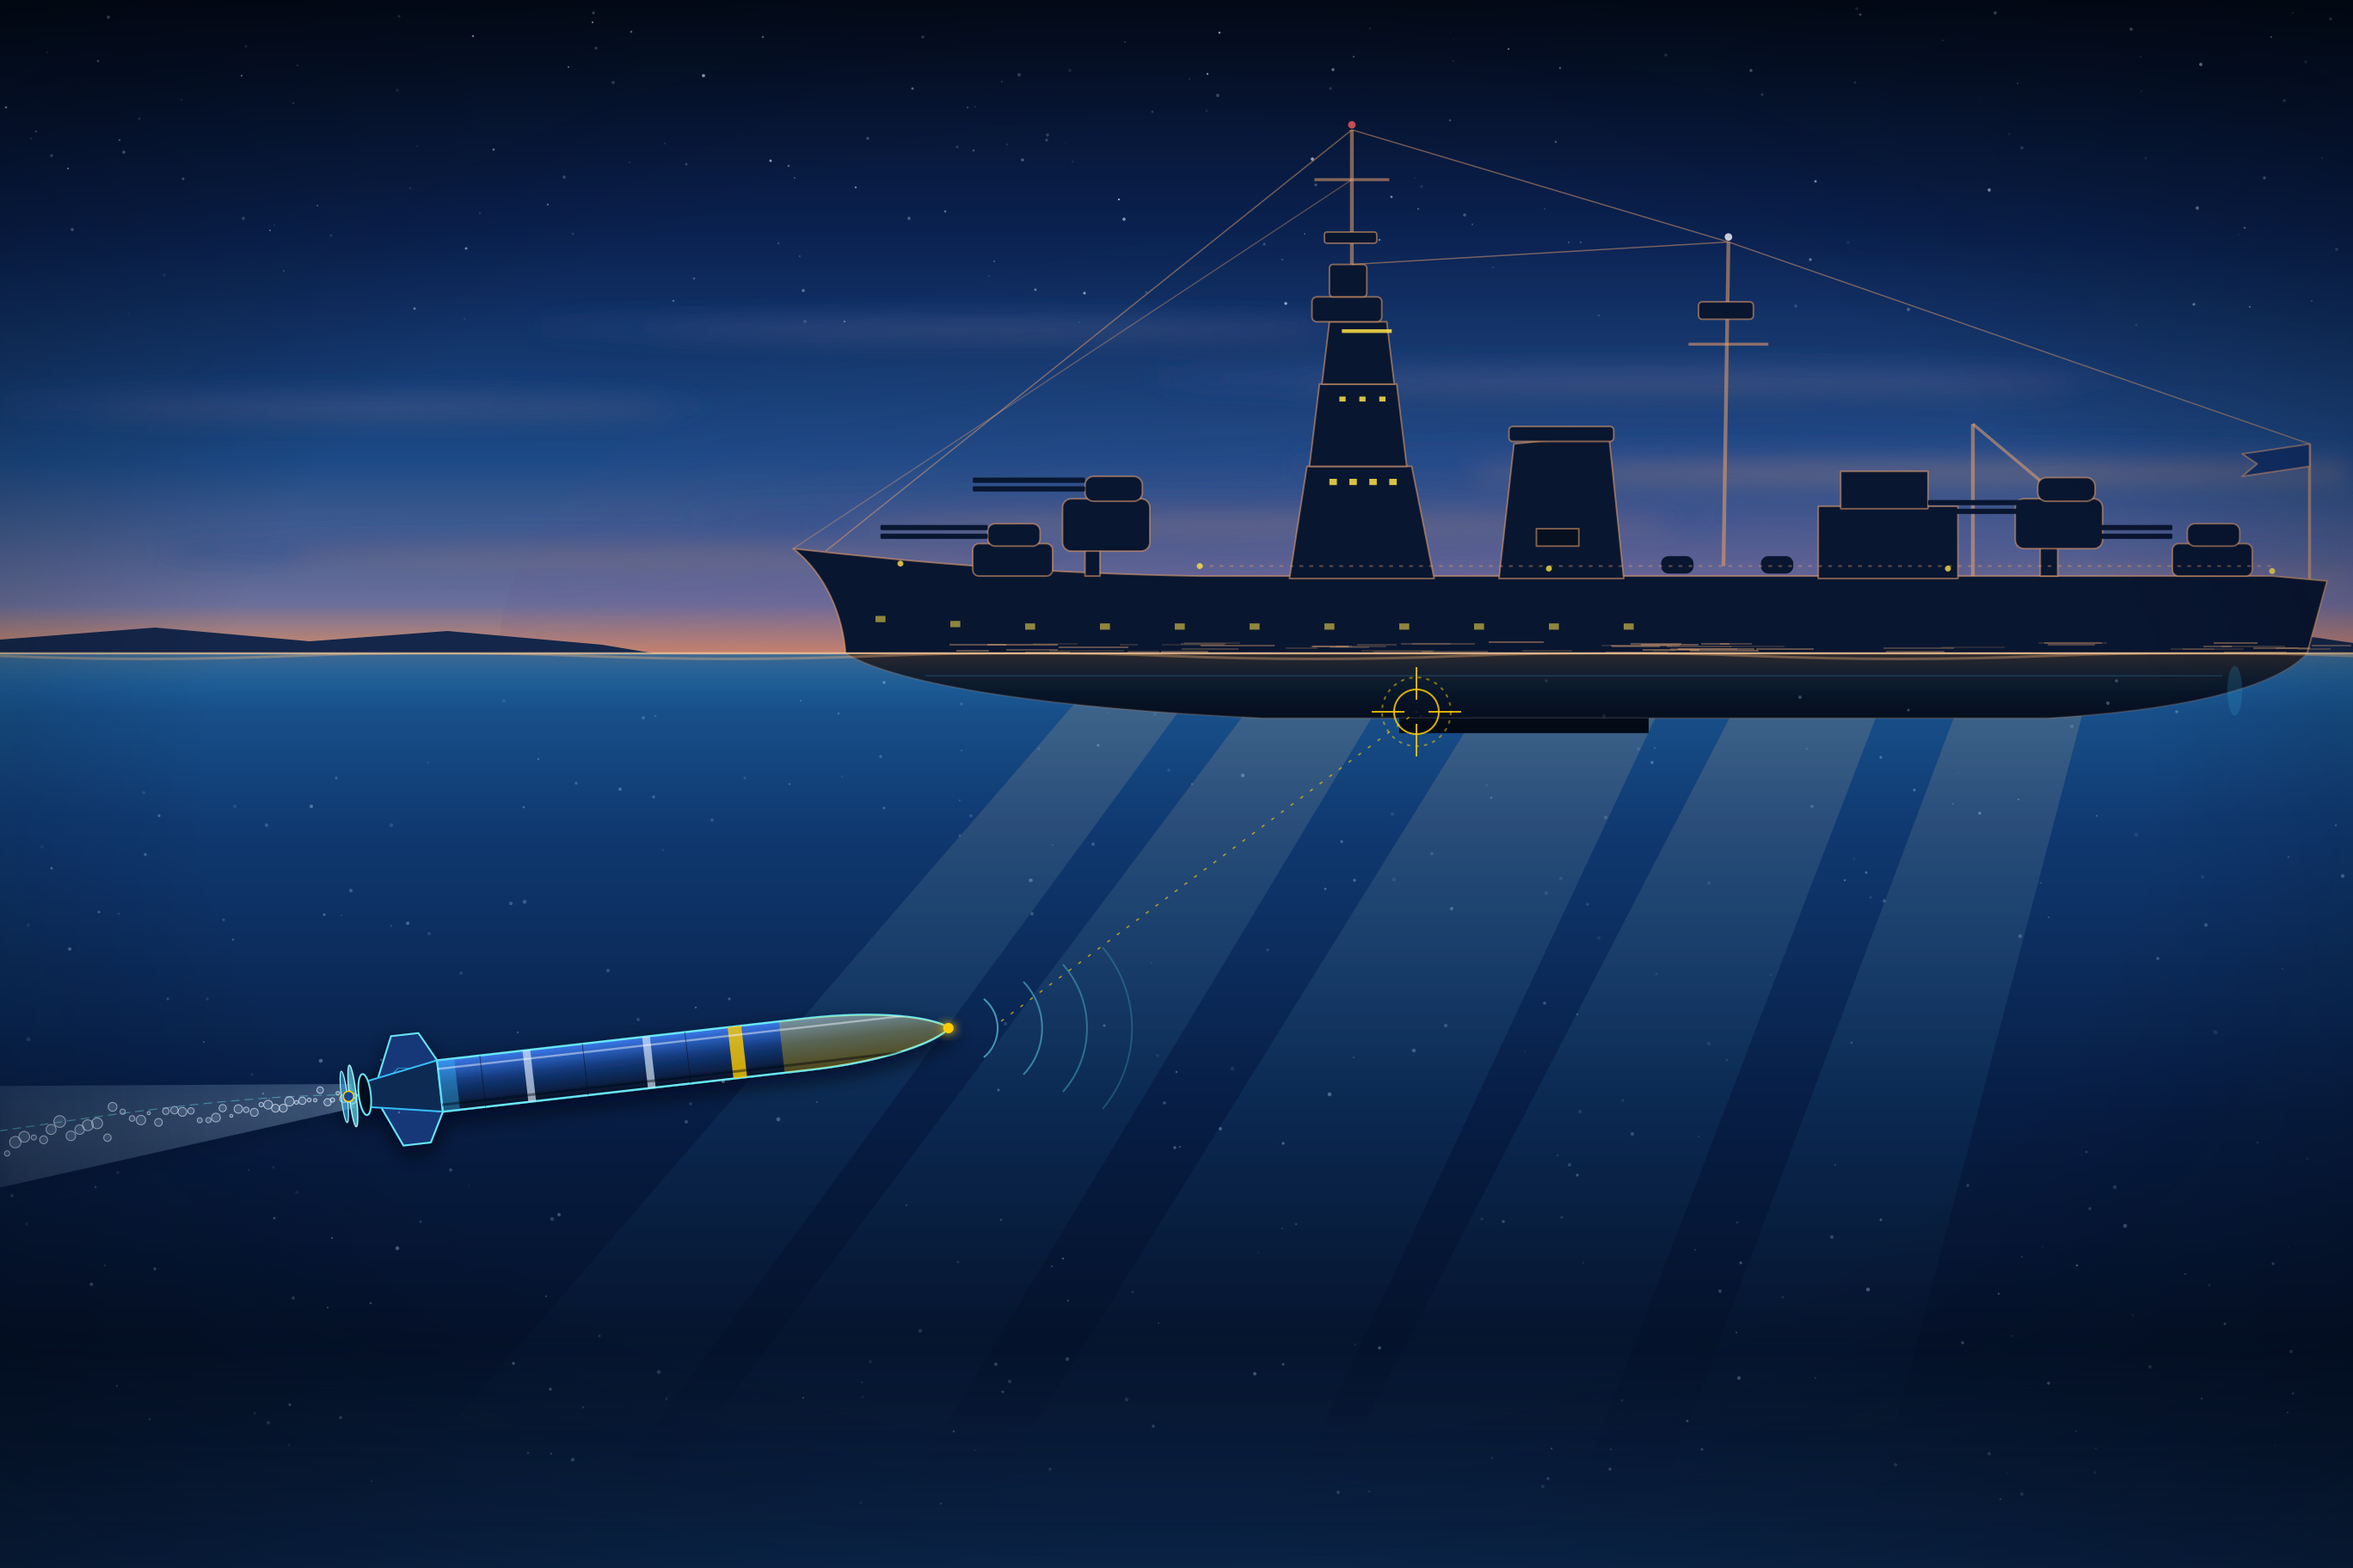
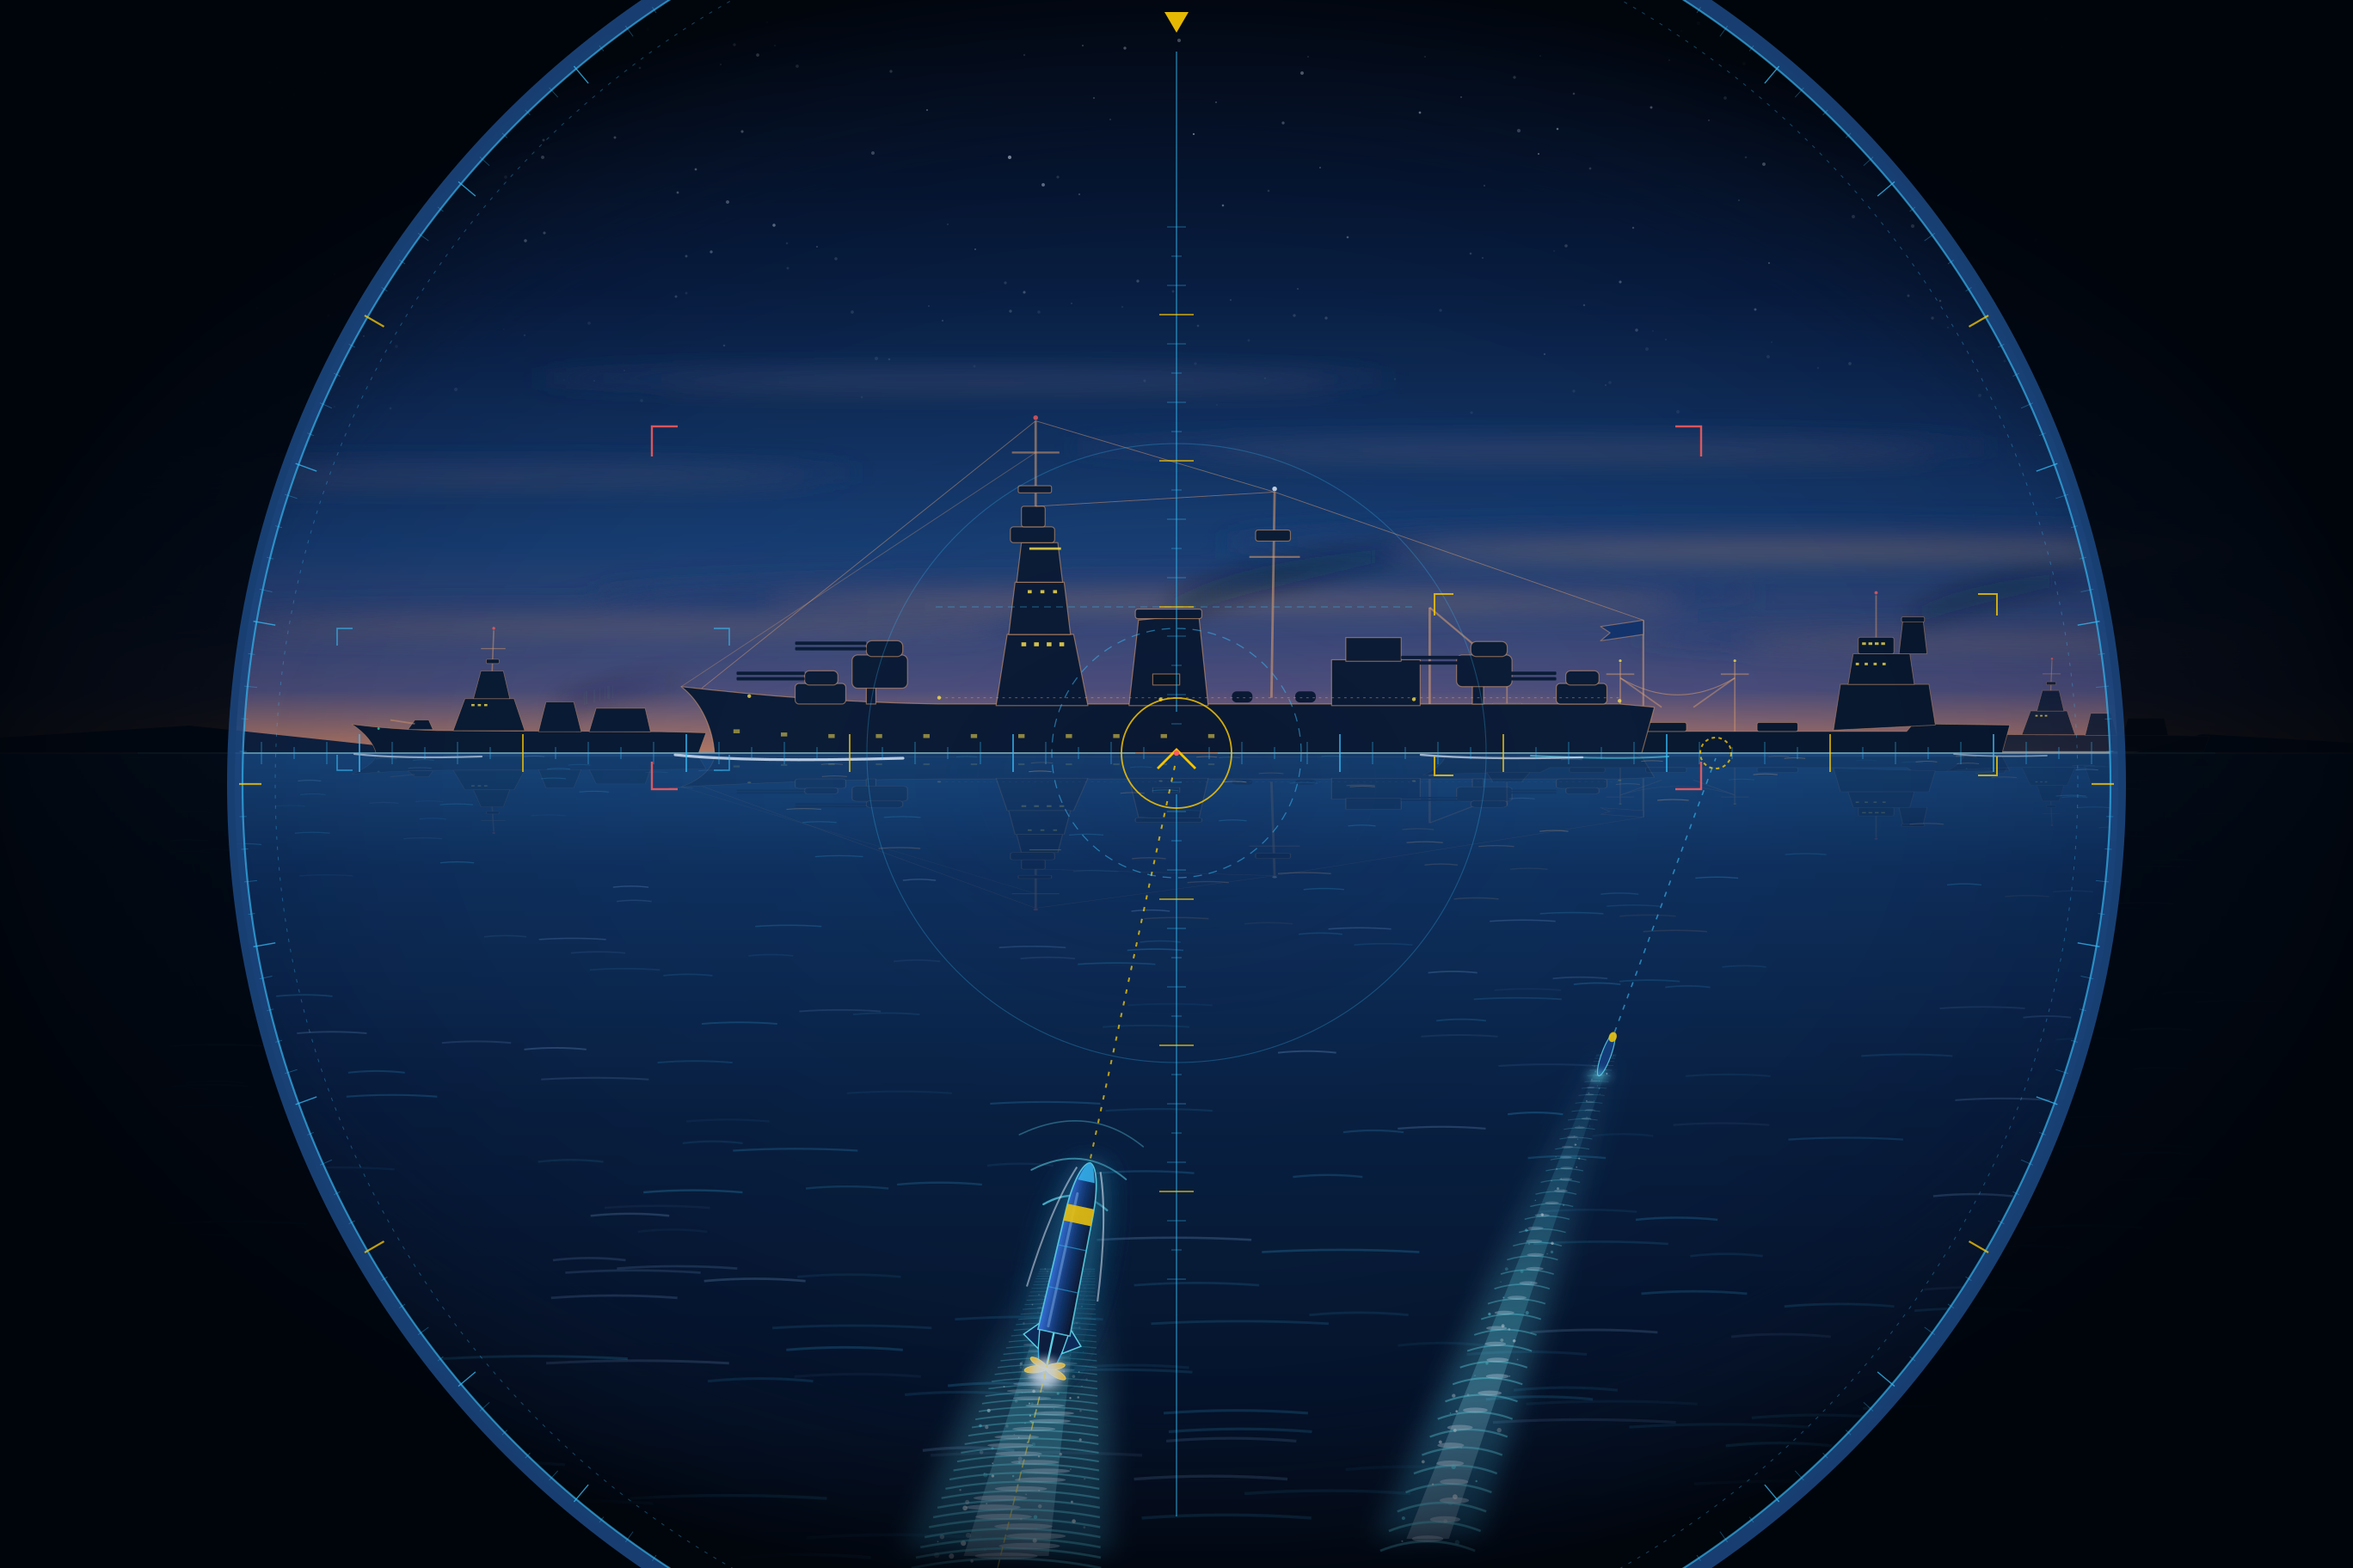
Redesign wallpaper 04 as attack periscope view of torpedo salvo against 4-ship convoy

diff --git a/README.md b/README.md
@@ -67,10 +67,10 @@ All four custom wallpapers are rendered at native `2736×1824` (3:2 Retina / Wid
     </td>
     <td width="50%" align="center">
       <a href="backgrounds/04-dawn-torpedo-run.png">
-        <img src="backgrounds/04-dawn-torpedo-run.png" alt="04 — Dawn Torpedo Run" width="100%">
+        <img src="backgrounds/04-dawn-torpedo-run.png" alt="04 — Periscope Convoy Torpedo Run" width="100%">
       </a>
-      <br><b>04 · Dawn Torpedo Run (Torped 62)</b>
-      <br>A Swedish heavyweight homing torpedo (<i>Torped 62</i>) cruising upward through dark navy water with counter-rotating propellers, wire-guidance filament, cavitation bubble trail, and acoustic homing lock toward a battleship silhouetted against a Baltic dawn horizon.
+      <br><b>04 · Periscope Convoy Torpedo Salvo (Torped 62)</b>
+      <br>Attack periscope view at Baltic dawn with stadia rangefinding crosshairs locked onto a 4-ship naval convoy (flagship battleship, fleet replenishment oiler, and two escort frigates) as a two-torpedo <i>Torped 62</i> salvo streaks away in perspective through the dark waves.
     </td>
   </tr>
 </table>
